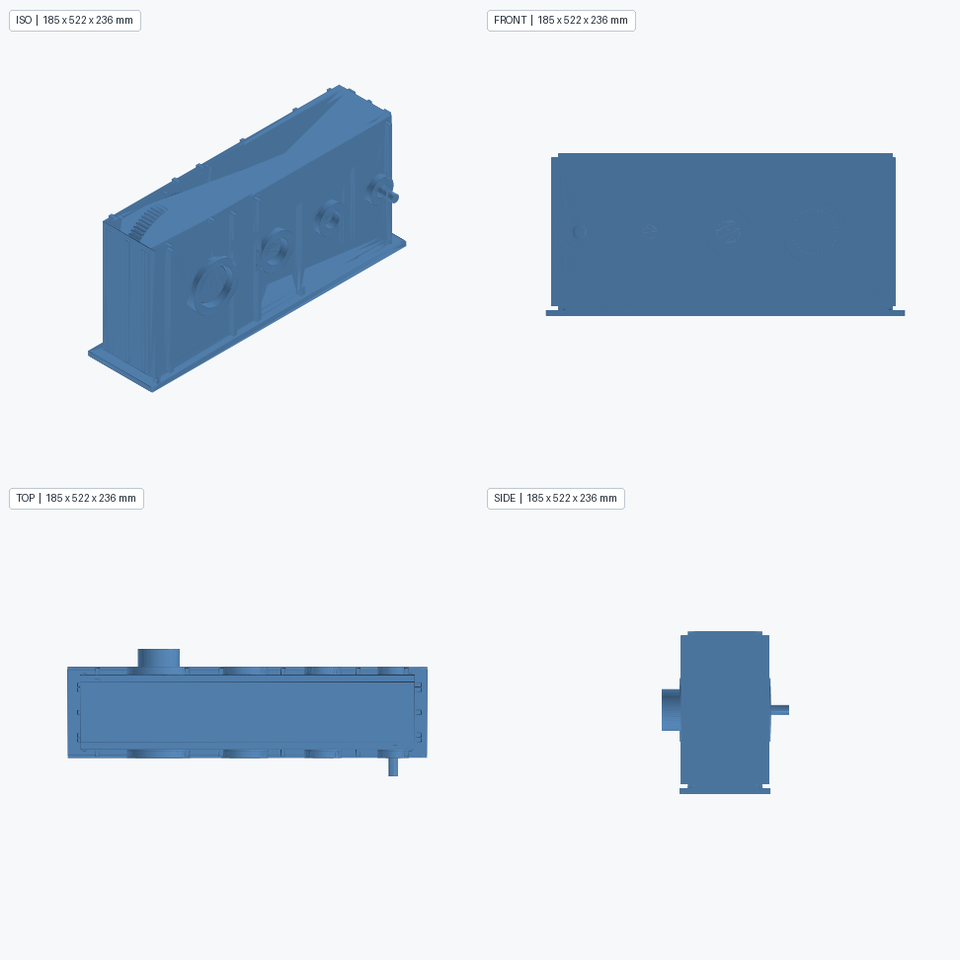
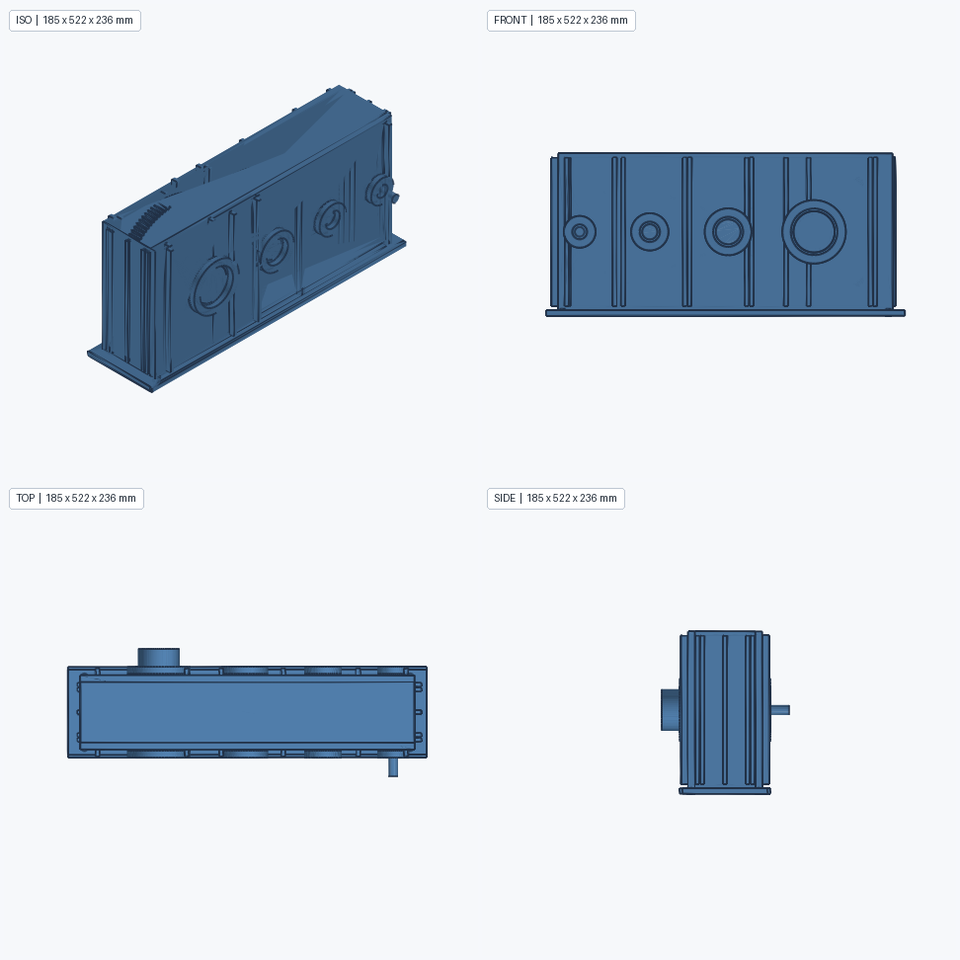
docs: refresh hero + add render before/after section (kernel v2.15)
- hero assembly render regenerated with the corrected v2.15 pipeline (clean
  feature edges, 4 bearing bores read as concentric circles in FRONT)
- new landing 'Evidence render' section + README figure showing the
  before/after: per-facet lines vs feature edges only (50304 -> 9660)

diff --git a/docs/index.html b/docs/index.html
@@ -533,6 +533,24 @@
 </section>
 
 
+<!-- ===== 渲染质量 ===== -->
+<section class="demo fadein" style="background: var(--foam);">
+  <div class="section-inner">
+    <span class="eyebrow-section">Evidence render</span>
+    <h2 class="section-title">给模型看的证据图，<em>也是干净的工程图</em></h2>
+    <p class="section-subtitle">
+      内核证据渲染器 v2.15：只画二面角 &gt;30° 的特征边（平面扇形三角化的对角噪声全部消失），OCP 角向细分封顶曲面刻面，crease-aware 平滑法线 + 背面棱剔除 + 掠射压暗。同一装配，前后对比：
+    </p>
+    <div style="text-align:center;">
+      <img src="images/render-before-after.png" alt="证据渲染前后对比：左为逐三角画边的旧版，右为只画特征边的 v2.15" loading="lazy" style="width:100%;max-width:1000px;border:1px solid var(--line);border-radius:12px;box-shadow:0 16px 40px -16px rgba(4,17,31,0.22);"/>
+      <div style="margin-top:14px;font-size:13px;color:var(--mute);font-family:'JetBrains Mono',monospace;">
+        装配实测：刻面线 50304 → 特征边 9660（−81%）· 顶点焊接开边 0 · 全图 7.8s
+      </div>
+    </div>
+  </div>
+</section>
+
+
 <!-- ===== 截图 ===== -->
 <section class="shots fadein">
   <div class="section-inner">

diff --git a/README.md b/README.md
@@ -20,6 +20,11 @@
 </p>
 
 <p align="center">
+  内核证据渲染器 v2.15：只画特征边，平面扇形三角化的对角噪声全部消失 ——<br/>
+  <img src="docs/images/render-before-after.png" alt="证据渲染前后对比：逐三角画边 vs 只画特征边" width="900"/>
+</p>
+
+<p align="center">
   <img alt="Status" src="https://img.shields.io/badge/status-harness%20mainline-blue" />
   <img alt="Python" src="https://img.shields.io/badge/python-3.12-blue" />
   <img alt="Tests" src="https://img.shields.io/badge/tests-399%20passing-brightgreen" />
